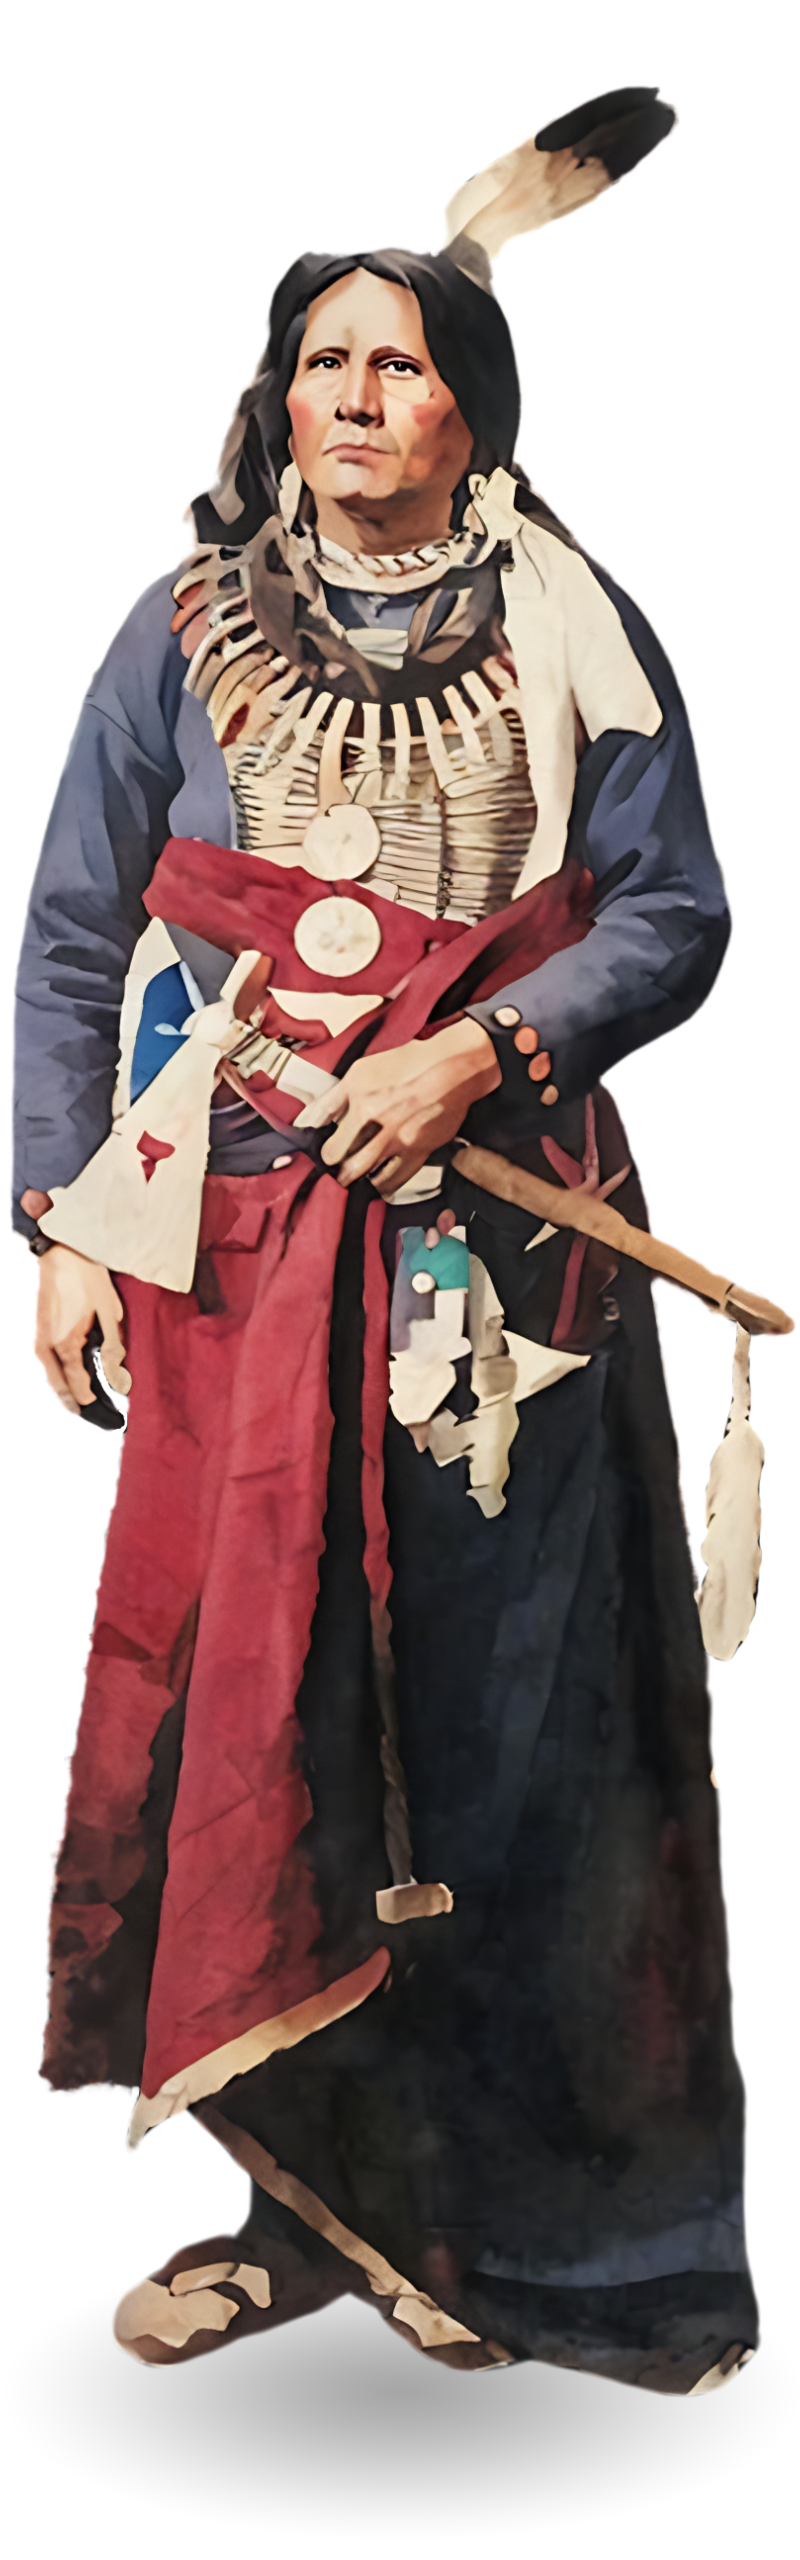
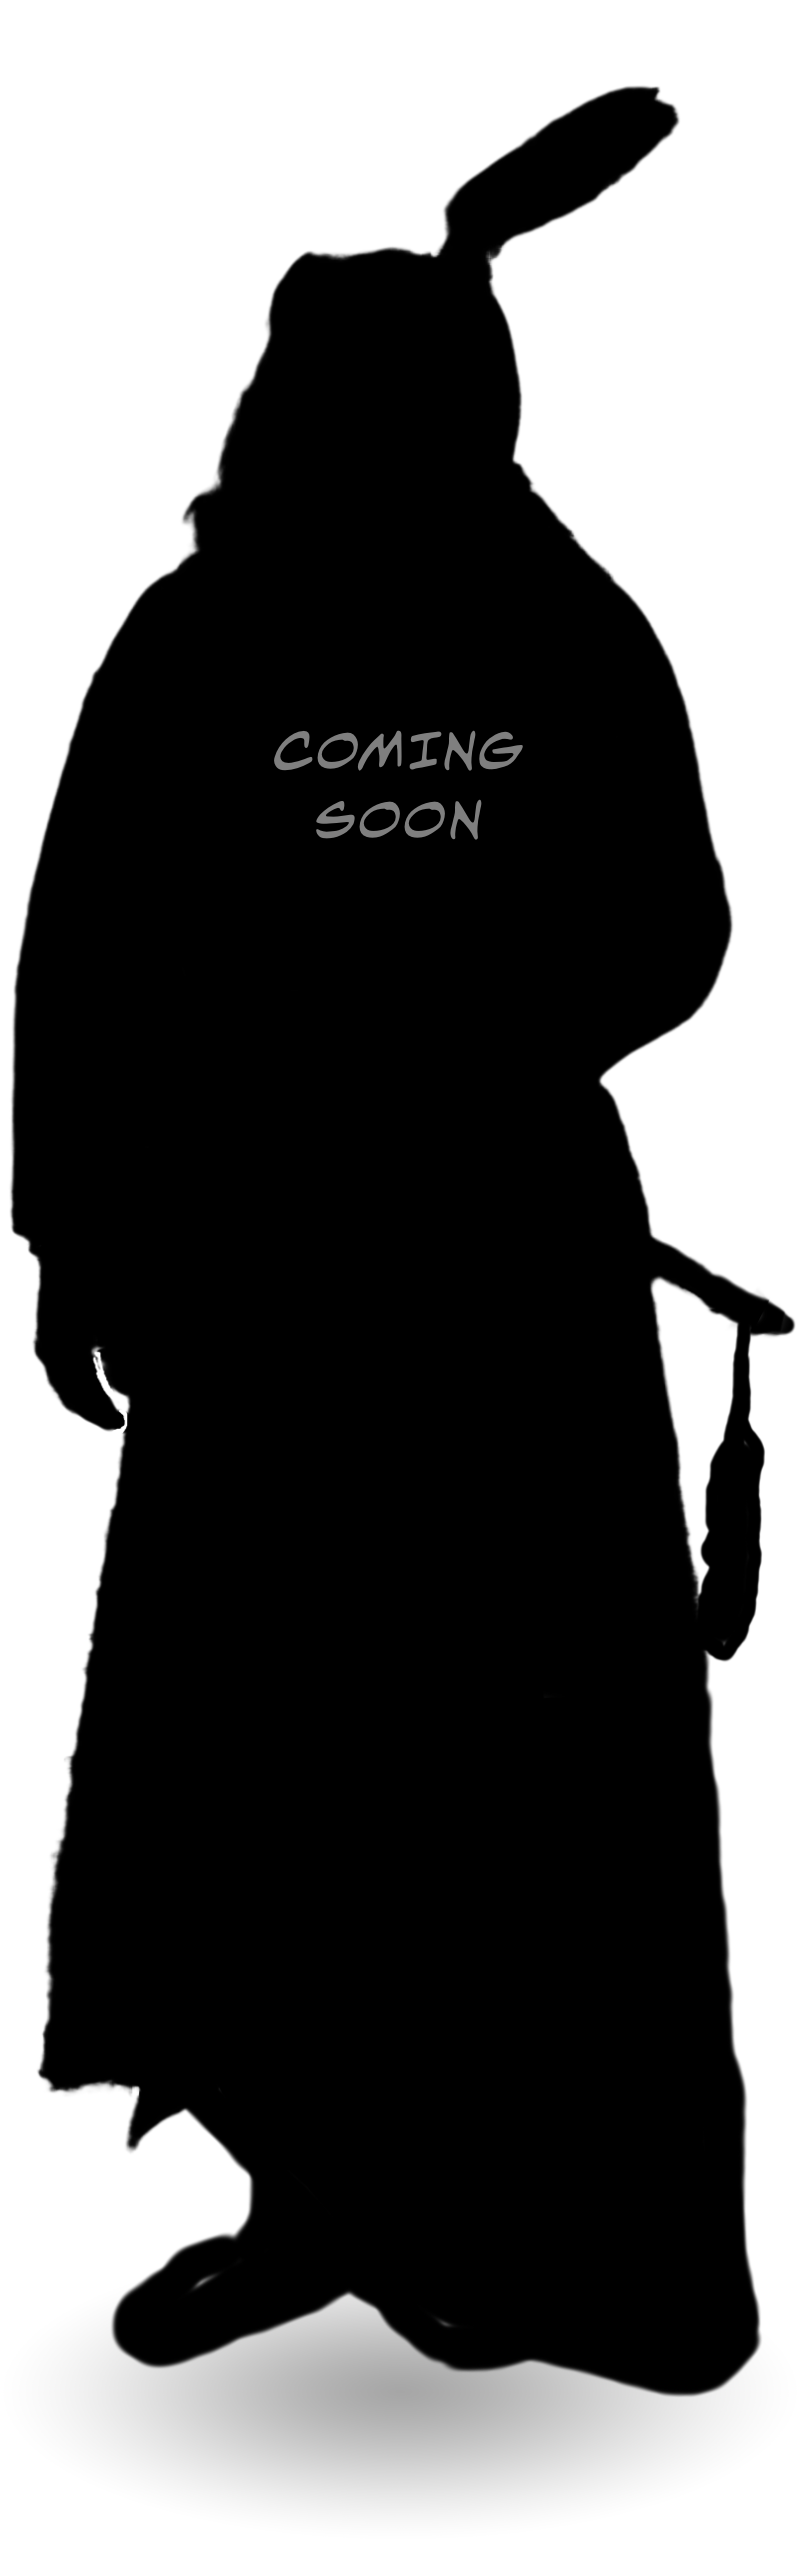
Deactivate Standing Bear figure

diff --git a/public/js/script.js b/public/js/script.js
@@ -580,7 +580,9 @@ const stateHandlers = {
     left: () => prev(),
     right: () => next(),
     enter: () => {
-      // if ([0, 1, 4, 5, 6].includes(figureIndex)) {
+      if (figureIndex == 4) {
+        return;
+      }
         playSFX(coverpageSFX);
         loadPages();
         transitionAppState(
@@ -589,7 +591,6 @@ const stateHandlers = {
           AppState.COMIC_BOOK,
           LightingScene.COMIC_BOOK
         );
-      // }
         isTimerActive = true;
         startInactivityTimer();
     },
